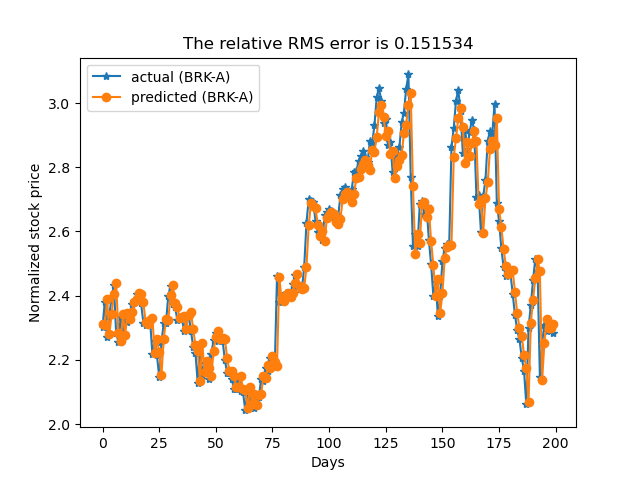
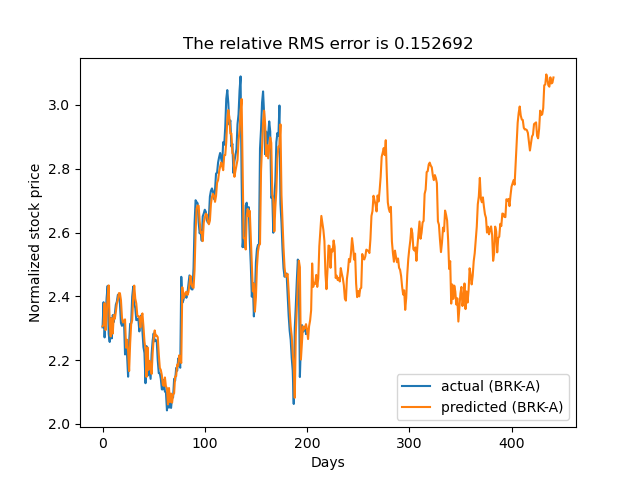
Prediction by update - Enc Dec
Does not work as hoped

diff --git a/python/util.py b/python/util.py
@@ -412,25 +412,32 @@ class LSTM_ED_Model():
 
         # Predict encoder for x_test to get decoder inputs. Iteratively predict decoder output.
         # This one is incomplete.
-        # states_value = encoder_model.predict(xtest)
-        # decoder_input = xtest[:, -1, :]  # choosing the most recent value to feed the decoder
-        # for i in range(self.values):
-        #     new_pred, h, c = self.decoder_model.predict([decoder_input] + states_value)
-        #     y_pred = new_pred.reshape((-1, 1))
-        #     decoder_input = new_pred
-        #     states_value = [h, c]
-        #     self.pred_update.append(y_pred)
-
-        # Predict encoder for x_test to get decoder inputs and use it for the decoder for one extra day.
+        states_value = self.encoder_model.predict(xtest[0:1,:,:])
+        decoder_input = xtest[0:1, -1, :]  # choosing the most recent value to feed the decoder
         for i in range(self.values):
-            states_value = self.encoder_model.predict(xtest[i:i+1, :, :])
-            decoder_input = xtest[i:i+1, -1, :]  # choosing the most recent value to feed the decoder
             new_pred, h, c = self.decoder_model.predict([decoder_input] + states_value)
             y_pred = new_pred.reshape((-1, 1))
+            decoder_input = new_pred
             states_value = [h, c]
-            self.pred.append(y_pred)
+            self.pred_update.append(y_pred)
 
-        self.pred = np.array(self.pred)
+        # Predict encoder for x_test to get decoder inputs and use it for the decoder for one extra day.
+        states_value = self.encoder_model.predict(xtest)
+        decoder_input = xtest[:, -1, :]  # choosing the most recent value to feed the decoder
+        new_pred, h, c = self.decoder_model.predict([decoder_input] + states_value)
+        y_pred = new_pred[:self.values,0:1,0:1]
+        self.pred = y_pred
+
+
+        # for i in range(self.values):
+        #     states_value = self.encoder_model.predict(xtest[i:i+1, :, :])
+        #     decoder_input = xtest[i:i+1, -1, :]  # choosing the most recent value to feed the decoder
+        #     new_pred, h, c = self.decoder_model.predict([decoder_input] + states_value)
+        #     y_pred = new_pred.reshape((-1, 1))
+        #     states_value = [h, c]
+        #     self.pred.append(y_pred)
+        # self.pred = np.array(self.pred)
+
         if self.forward_look>1:
             self.RMS_error = (np.mean(((np.squeeze(self.ytest[:self.values, 0, 0]) - np.squeeze(self.pred[:, 0, 0])) / (np.squeeze(self.ytest[:self.values, 0, 0])) ** 2))) ** 0.5
         else:
@@ -454,7 +461,7 @@ class LSTM_ED_Model():
         else:
             plt.plot(self.ytest[:self.values, 0, 0], '-', label='actual (%s)' % self.ts)
             plt.plot(self.pred[:, 0, 0], '-', label='predicted (%s)' % self.ts)
-            # plt.plot(self.pred_update[1:, 0], label='predicted (update)')
+            plt.plot(self.pred_update[:, 0, 0], label='predicted (update)')
             plt.xlabel("Days")
             plt.ylabel("Normalized stock price")
             plt.title('The relative RMS error is %f' % self.RMS_error)
